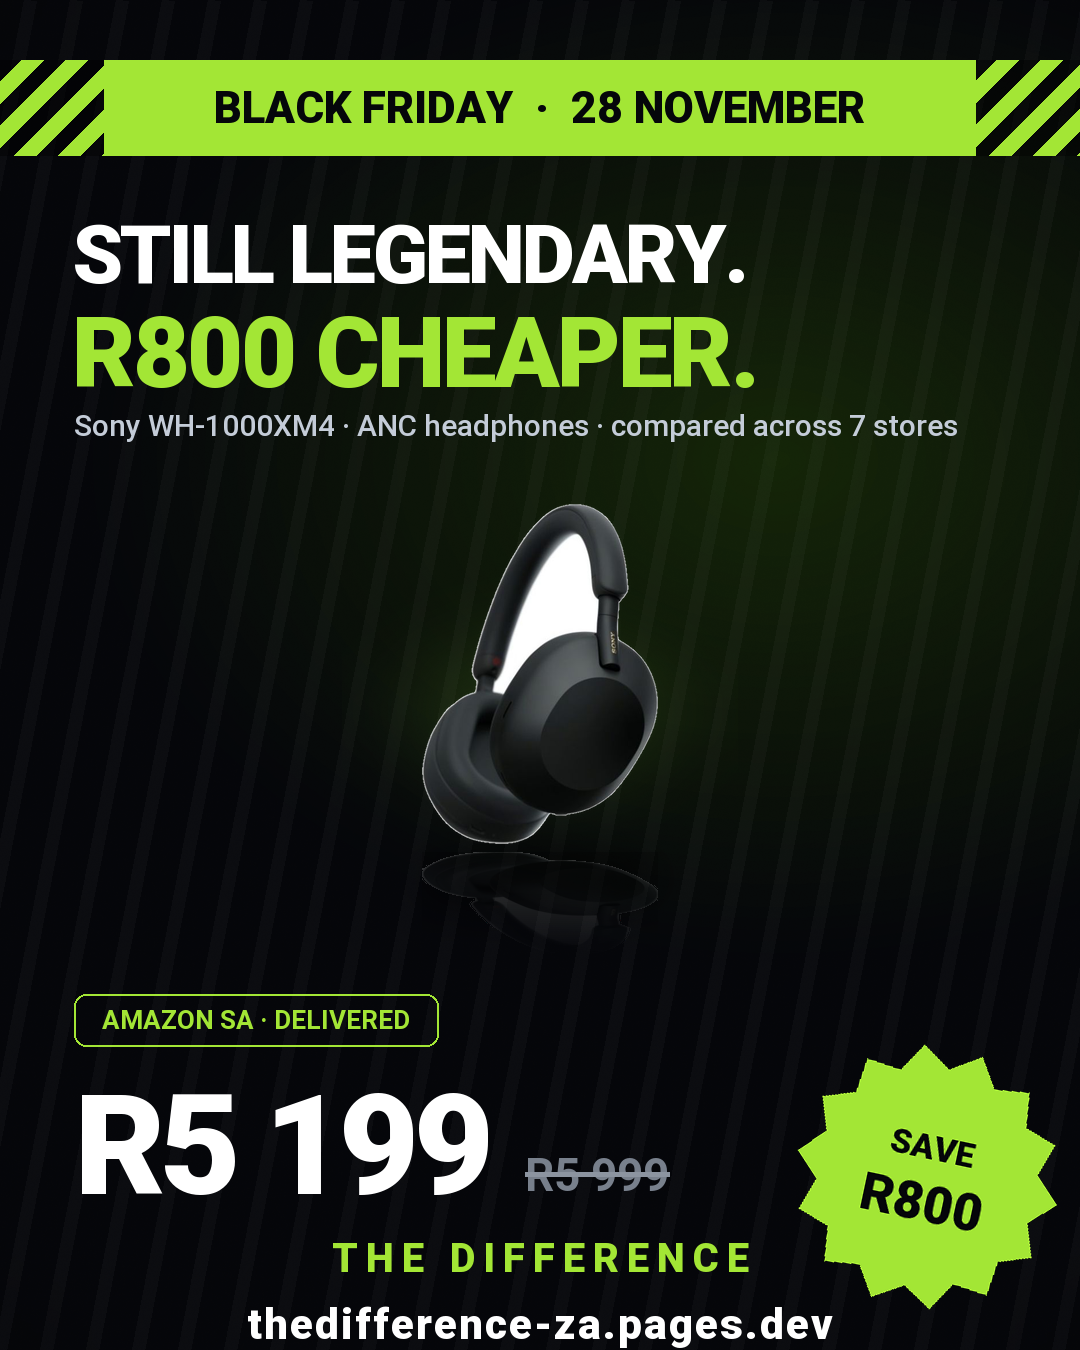
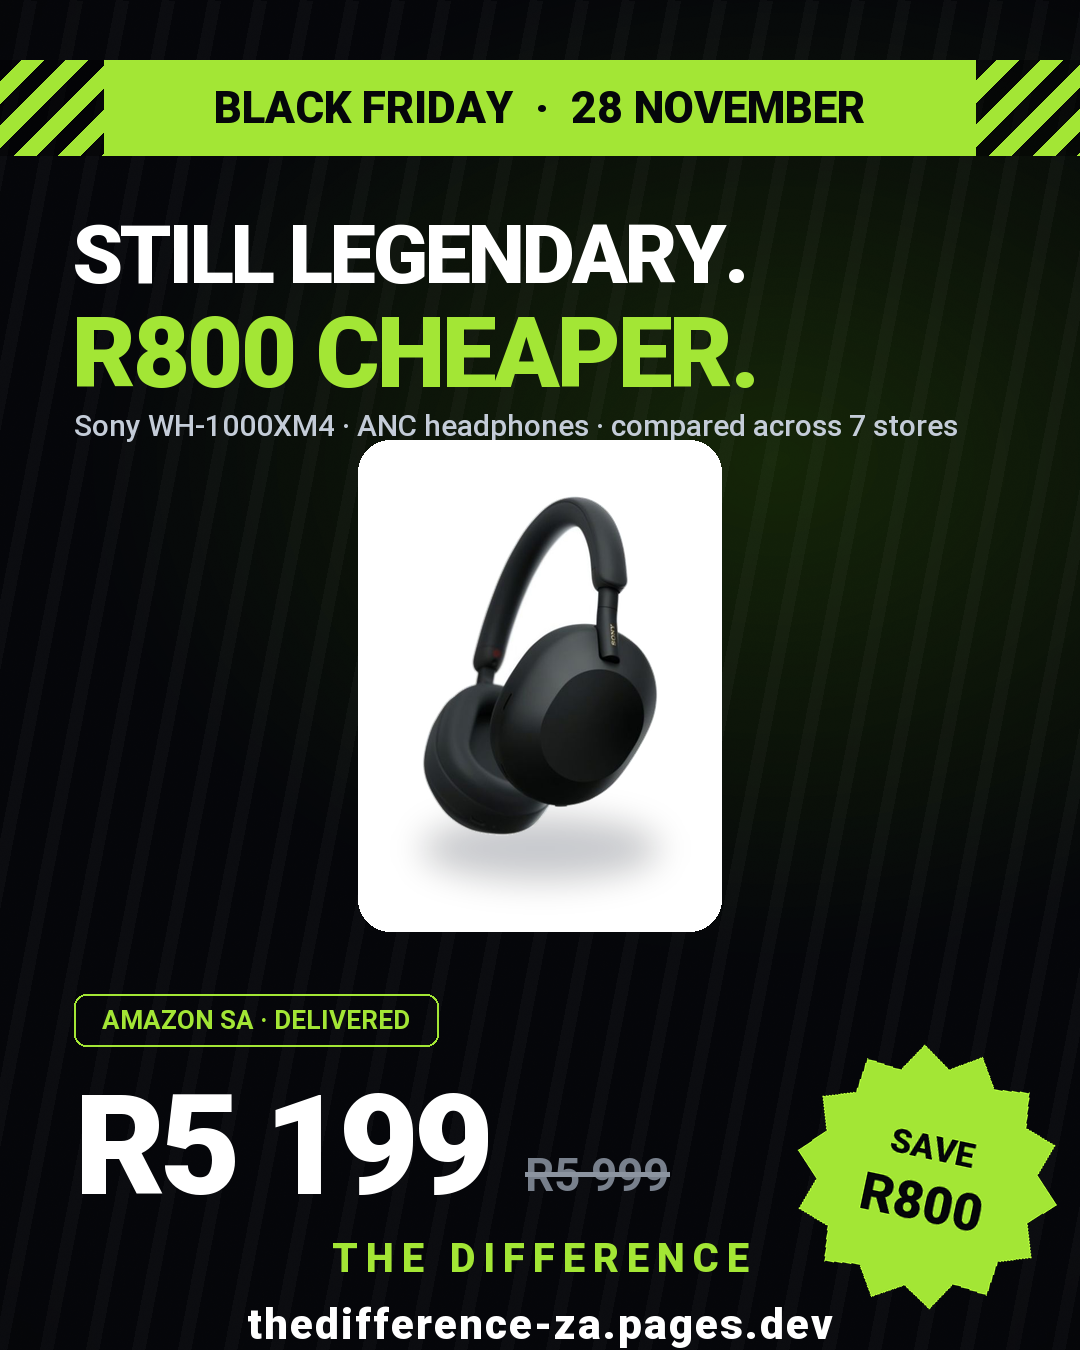
promo: put product heroes on white rounded cards — hides packshot cut-out fringe without touching product pixels

Changed region(s): [[0.3056, 0.3111, 0.6722, 0.7156]]

diff --git a/scripts/make_bf_posters.py b/scripts/make_bf_posters.py
@@ -13,7 +13,6 @@ Design system — modern Black Friday retail creative:
 import os
 import random
 import math
-import numpy as np
 from PIL import Image, ImageDraw, ImageFont, ImageFilter
 
 ROOT = os.path.dirname(os.path.dirname(os.path.abspath(__file__)))
@@ -140,53 +139,36 @@ def starburst(save="SAVE\nR4 095", size=340):
     return img.rotate(-12, expand=True, resample=Image.BICUBIC)
 
 
-def defringe(im):
-    """Remove the white fringe left by background removal on dark posters."""
-    arr = np.asarray(im).astype(np.float32)
-    rgb, a = arr[..., :3], arr[..., 3:] / 255.0
-    un = (rgb - (1.0 - a) * 255.0) / np.clip(a, 0.02, 1.0)
-    un = np.clip(un, 0, 255)
-    alpha = np.where(a < 0.55, 0.0, np.clip((a - 0.55) / 0.35, 0, 1))
-    out = np.dstack([un, alpha * 255]).astype(np.uint8)
-    return Image.fromarray(out, "RGBA")
-
-
 def product_hero(path, max_w, max_h):
-    """Packshot with acid glow, floor shadow and reflection."""
-    im = defringe(Image.open(path).convert("RGBA"))
+    """Packshot on a white product card, the retail-ad treatment.
+
+    The packshots carry a soft white cut-out fringe that is invisible on a
+    white card (but glows on dark stages), so every product sits on a white
+    rounded card with a soft floor shadow inside it.
+    """
+    im = Image.open(path).convert("RGBA")
     bbox = im.getbbox()
     if bbox:
         im = im.crop(bbox)
     im.thumbnail((max_w, max_h), Image.LANCZOS)
     w, h = im.size
 
-    stage = Image.new("RGBA", (w + 160, h + 200), (0, 0, 0, 0))
+    pad_x, pad_t, pad_b = 64, 56, 96
+    card = Image.new("RGBA", (w + 2 * pad_x, h + pad_t + pad_b), (0, 0, 0, 0))
+    cd = ImageDraw.Draw(card)
+    cd.rounded_rectangle((0, 0, card.width - 1, card.height - 1), radius=32, fill=(255, 255, 255, 255))
 
-    glow = Image.new("RGBA", stage.size, (0, 0, 0, 0))
-    gd = ImageDraw.Draw(glow)
-    for r in range(int(min(w, h) * 0.85), 0, -10):
-        a = int(90 * (1 - r / (min(w, h) * 0.85)))
-        gd.ellipse((stage.width / 2 - r, stage.height / 2 - r * 0.6, stage.width / 2 + r, stage.height / 2 + r * 0.6), fill=(90, 140, 40, a))
-    glow = glow.filter(ImageFilter.GaussianBlur(40))
-    stage = Image.alpha_composite(stage, glow)
+    inner_shadow = Image.new("RGBA", card.size, (0, 0, 0, 0))
+    sd = ImageDraw.Draw(inner_shadow)
+    sd.ellipse((card.width / 2 - w / 2, pad_t + h - 18, card.width / 2 + w / 2, pad_t + h + 42), fill=(15, 23, 42, 60))
+    inner_shadow = inner_shadow.filter(ImageFilter.GaussianBlur(16))
+    mask = Image.new("L", card.size, 0)
+    md = ImageDraw.Draw(mask)
+    md.rounded_rectangle((0, 0, card.width - 1, card.height - 1), radius=32, fill=255)
+    card = Image.composite(Image.alpha_composite(card, inner_shadow), card, mask)
 
-    px, py = (stage.width - w) // 2, (stage.height - h) // 2 - 36
-    stage.alpha_composite(im, (px, py))
-
-    shadow = Image.new("RGBA", stage.size, (0, 0, 0, 0))
-    sd = ImageDraw.Draw(shadow)
-    sd.ellipse((stage.width / 2 - w / 2, py + h + 6, stage.width / 2 + w / 2, py + h + 64), fill=(0, 0, 0, 140))
-    shadow = shadow.filter(ImageFilter.GaussianBlur(18))
-    stage = Image.alpha_composite(shadow, stage)
-
-    refl = im.transpose(Image.FLIP_TOP_BOTTOM).resize((w, int(h * 0.30)))
-    fade = Image.new("L", refl.size, 0)
-    fd = ImageDraw.Draw(fade)
-    for i in range(refl.size[1]):
-        fd.line([(0, i), (refl.size[0], i)], fill=int(52 * (1 - i / refl.size[1])))
-    refl.putalpha(fade)
-    stage.alpha_composite(refl, (px, py + h + 8))
-    return stage
+    card.alpha_composite(im, ((card.width - w) // 2, pad_t))
+    return card
 
 
 def footer(draw, y=1226):
